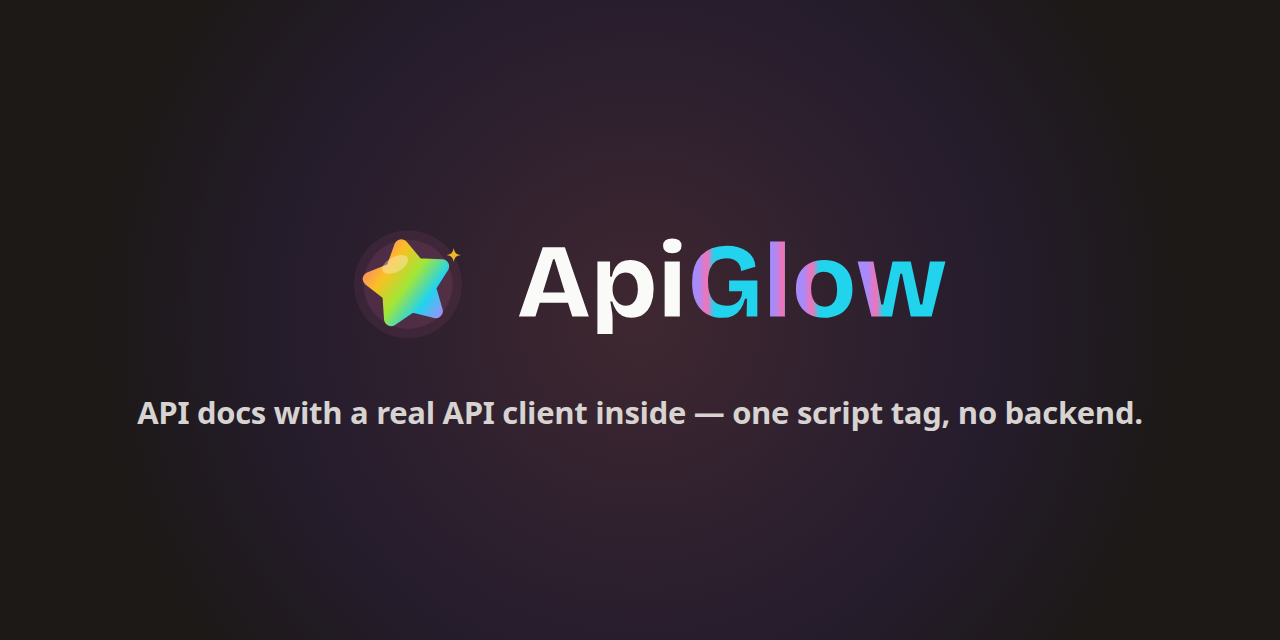
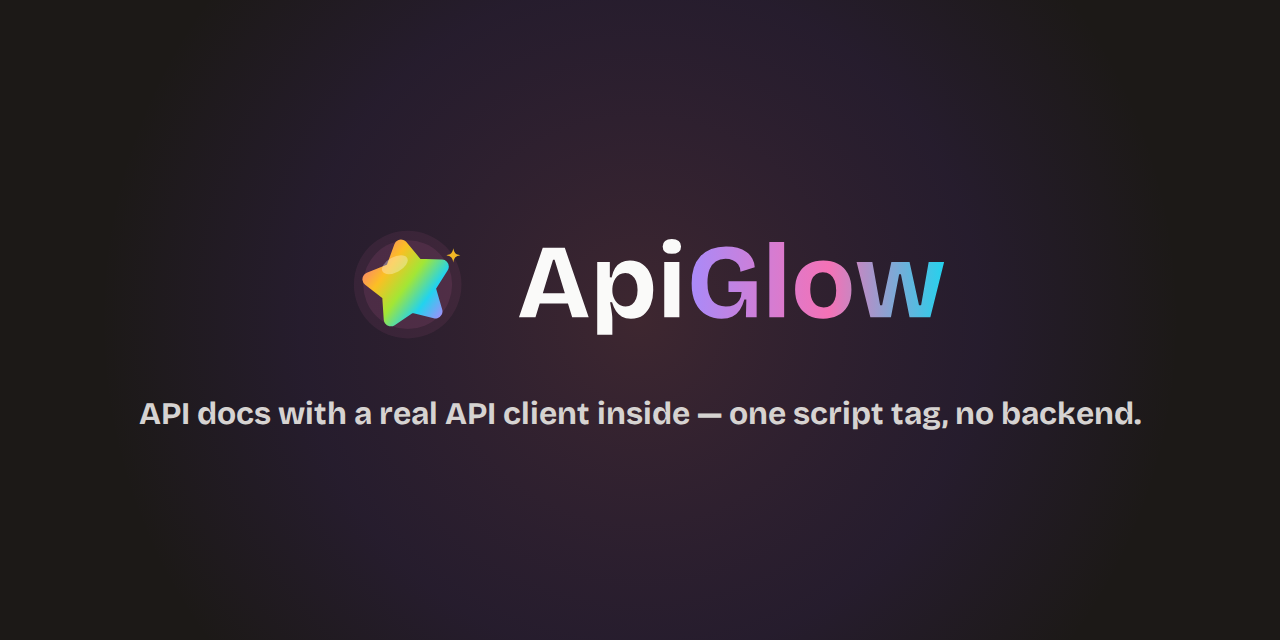
Paint the wordmark gradient across the word
Each glyph carries its own scale(0.064), and a userSpaceOnUse gradient
resolves in the element's space, transform included — filled directly, the
ramp restarted 16x compressed on every letter. "Glow" is now one gradient
rectangle clipped by its glyphs.

The social preview showed that rendering too. It now comes from a committed
source drawn with the kit's own paths, so re-rendering it is one command.

Changed region(s): [[0.0938, 0.625, 0.9062, 0.6875], [0.4688, 0.375, 0.75, 0.5], [0.4062, 0.4688, 0.5, 0.5]]

diff --git a/brand/README.md b/brand/README.md
@@ -13,7 +13,9 @@ avatars, and anywhere else the project shows its face.
 | `apiglow-wordmark-dark.svg` | "ApiGlow" set as paths, for dark backgrounds |
 | `apiglow-avatar.svg` | The mark on the `#1c1917` plate, for square avatar slots |
 | `apiglow-avatar-512.png` | The same at 512×512, for uploads that refuse SVG (GitHub org avatar, npm, social profiles) |
+| `apiglow-social.svg` | Source of the card below — `npm run brand:social` |
 | `apiglow-social-1280x640.png` | The GitHub repository social preview — the card link unfurlers show |
+| `fonts/` | Bricolage Grotesque (OFL-1.1, license alongside), the one font the card's pitch line needs at render time |
 
 The tab favicon is not here: it lives at its serving path, `demo/favicon.svg`.
 
@@ -38,9 +40,20 @@ on the `#1c1917` plate over a wide pink-to-violet radial halo, the README
 pitch line under them in `#d6d3d1`. The lockup stays well inside the middle
 of the frame: unfurlers crop this card, some of them to a square.
 
+The card is drawn by `apiglow-social.svg` — the mark and the wordmark inlined
+as the same paths the standalone files carry, so the two can never drift — and
+rendered by `npm run brand:social`. Re-render it whenever the pitch line
+in the README changes.
+
 ## Wordmarks
 
 Generated from the website identity's variable font (Bricolage Grotesque,
 wght 700) converted to SVG paths, "Glow" filled with the brand gradient
 (light: `#6d28d9→#be185d→#0e7490`, dark: `#a78bfa→#f472b6→#22d3ee`, 55 %
 midpoint, `userSpaceOnUse`). No font loads at render time.
+
+"Glow" is painted as one gradient rectangle clipped by its glyphs rather than
+as gradient-filled paths. Each glyph carries its own `scale(0.064)`, and a
+`userSpaceOnUse` gradient resolves in the *element's* space, transform
+included — filled directly, the ramp restarts 16× compressed on every letter.
+Anything that re-uses these paths inherits the trap.
